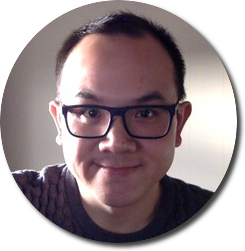
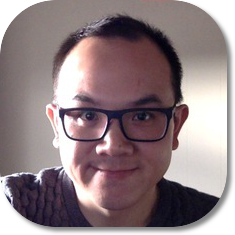
pic changes

diff --git a/_includes/header.html b/_includes/header.html
@@ -1,11 +1,8 @@
 <header class="site-header">
-   
+ 
   <div class="wrapper">
-
-    <img src="{{ site.baseurl }}/img/self.png" id="pic">
-    
-    <a class="site-title" href="{{ site.baseurl }}/">{{ site.title }}</a>
-  
+    <img src="{{ site.baseurl }}/img/self.png" id="pic"> 
+    <a class="site-title" href="{{ site.baseurl }}/">{{ site.title }}</a>    
     <nav class="site-nav">
       <a href="#" class="menu-icon">
         <svg viewBox="0 0 18 15">

diff --git a/_sass/_layout.scss b/_sass/_layout.scss
@@ -176,9 +176,9 @@
 }
 
 #pic {
-    height:112px;
-    left: 65%;
-    position: fixed;
+    height:56px;
+    margin-right: 10px;
+    float:left
 }
 /**
  * Page content
